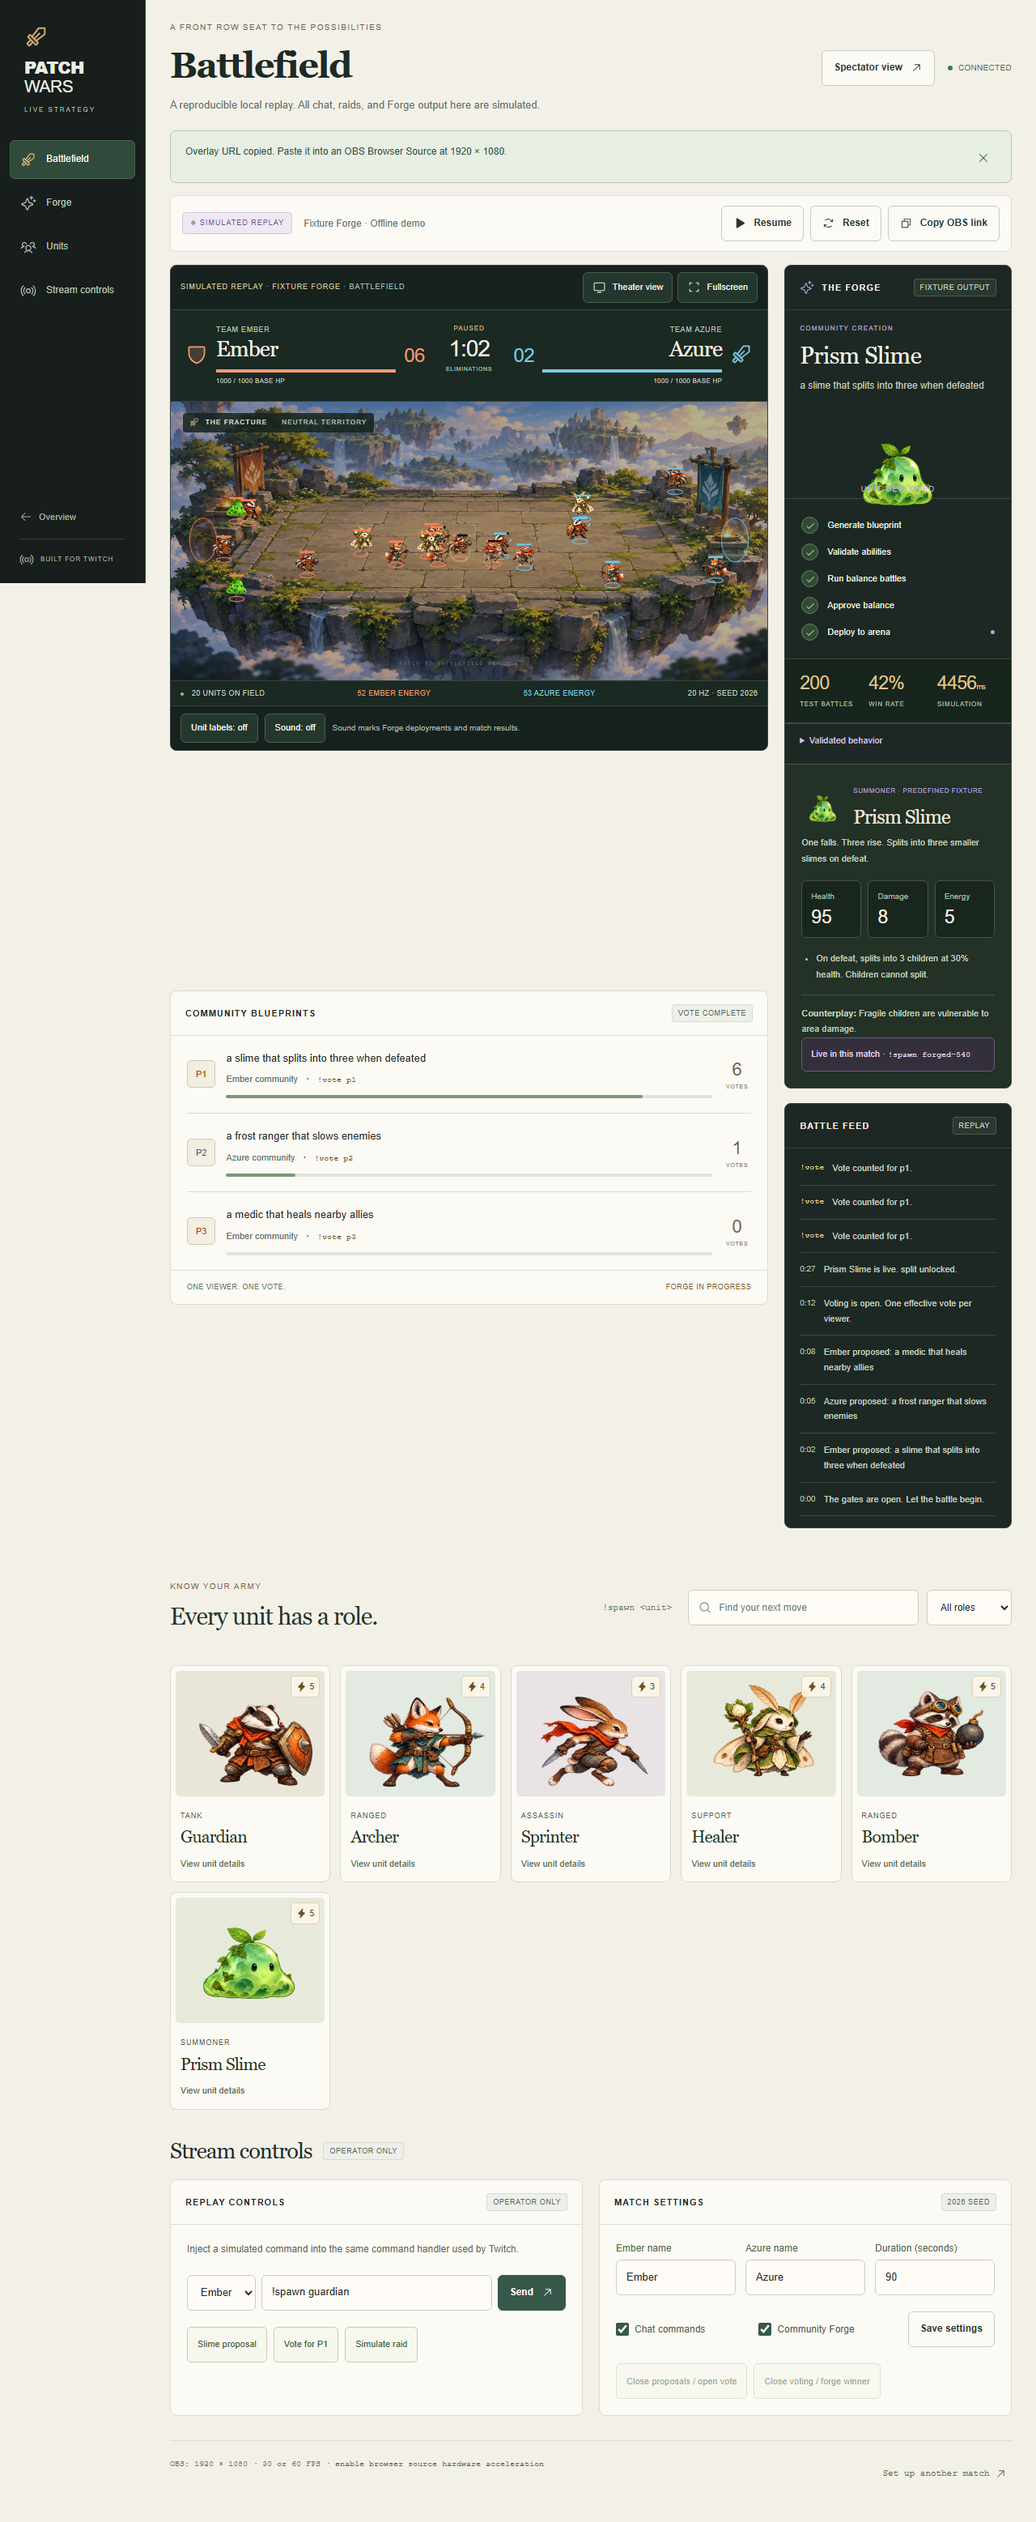
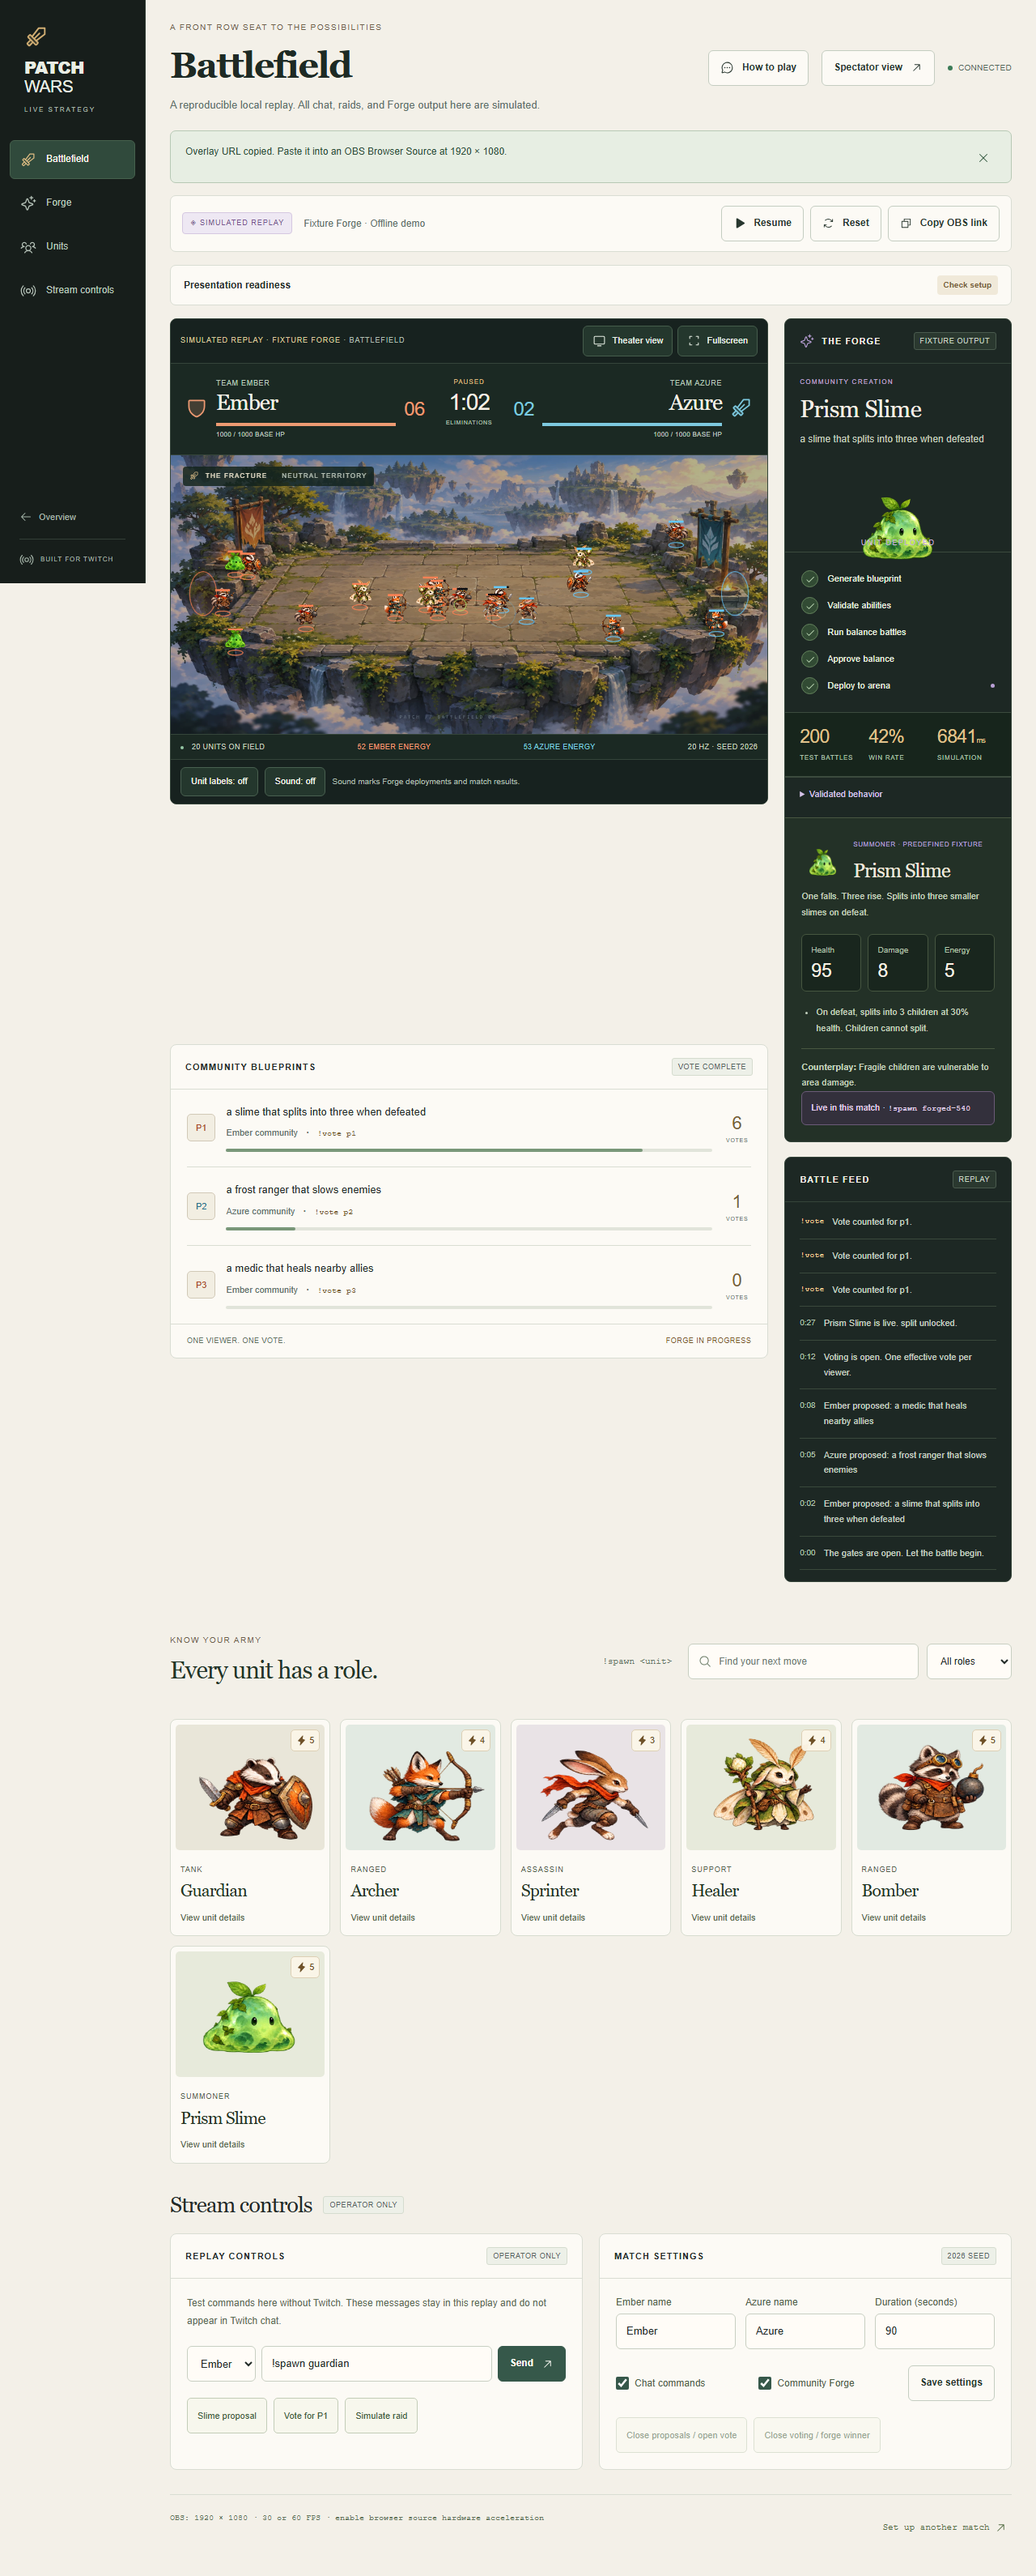
docs(verification): record priority checks and Twitch OBS rehearsal

diff --git a/docs/manual-rehearsal.md b/docs/manual-rehearsal.md
@@ -1,0 +1,77 @@
+# Check PATCH WARS yourself
+
+PATCH WARS is a browser-based game, not an extension. The local demo uses simulated chat and predefined Forge output. A live match listens to an authorized Twitch channel through EventSub and uses the configured Forge provider.
+
+## 1. Open the running app
+
+Open http://localhost:5173. If it is not running, open PowerShell in the project folder and run `pnpm.cmd dev`. Keep that terminal open. If port 5173 is already busy, try the existing page before launching another server.
+
+Optional local setup check: `pnpm.cmd run doctor`. It never prints your key or makes a paid generation request.
+
+## 2. Watch the complete automatic rehearsal
+
+Open http://localhost:5173/demo. Keep this room URL; revisiting /demo without a room creates a new match. Reset restarts the same room.
+
+| What to watch              | Expected result                                                                    |
+| -------------------------- | ---------------------------------------------------------------------------------- |
+| Connection and battlefield | CONNECTED, moving units, changing timer and team information                       |
+| Community blueprints       | Scripted proposals appear and voting opens                                         |
+| Forge                      | Blueprint generation, validation, 200 balance engagements, approval and deployment |
+| Unit deployed              | Prism Slime appears; the roster gains its detail card                              |
+| Combat                     | Eliminations and base health reflect the battle; a simulated raid occurs           |
+| Finish                     | A result card and winner/draw appear; Reset becomes available                      |
+
+The replay lasts 90 seconds of simulation time. Pauses and waiting for the worker can make wall time longer. Use the actual Forge/phase labels to judge progress. Everything here remains labelled SIMULATED REPLAY / FIXTURE FORGE, even if your live provider is Ollama.
+
+## 3. Try controls and messages
+
+1. Turn Unit labels on.
+2. While the replay is running, find Replay controls under Stream controls. Choose Ember, enter `!spawn archer`, and press Send. Expect an Archer deployed receipt and a highlighted unit. Leave at least two seconds between messages.
+3. Press Pause, then try another spawn. Expect a message explaining that combat is paused. Resume to continue.
+4. Open How to play. Copy an example and paste it into a text editor. Copying must not send a game command. Escape closes the guide and restores focus.
+5. Open Presentation readiness and select Check setup. Connection and renderer checks should pass. Demo/fixture notes are expected; they do not claim Twitch or real AI acceptance.
+6. Try Theater view, Escape, Fullscreen and its visible exit. If the browser rejects native fullscreen, an explained theater fallback should open. The same match continues.
+7. Open Spectator view in another tab. It should follow the same match and offer no operator pause/reset controls. Open the copied OBS link too; it should show no interactive viewing/host controls.
+8. After the result, Reset and Start battle. Timer, base health, scores and the match-specific generated roster should reset.
+
+## 4. Check Twitch itself
+
+1. Open /dashboard and enter your saved operator key locally. Do not share it.
+2. Create a Twitch match. Open Connection setup details and register the displayed callback in your Twitch developer app if needed.
+3. Click Connect Ember with Twitch and authorize your channel. Stay on the same browser address throughout authorization.
+4. Once connected, Start battle. Use the channel's Open chat link and send `!spawn archer` in actual Twitch chat.
+5. Expect a TWITCH CHAT receipt and an Archer on that channel's team. The local replay's Send button is a separate simulation path.
+
+A connected socket alone does not prove chat delivery. Use the receipt and deployed entity as evidence. Server restarts clear in-memory rooms and Twitch tokens, requiring a new match and authorization.
+
+### Show the live battle in OBS
+
+This project provides chat-controlled battles captured in OBS. It does not require a native Twitch extension or Bits purchases. The PixelWars reference video uses an extension, so the viewer input method differs.
+
+1. Copy the match's OBS link. In OBS, select Sources > + > Browser, paste the link and set Width 1920 / Height 1080.
+2. The copied transparent overlay is suitable above a camera or game source. Remove `?transparent=1` from the URL to include the full illustrated battlefield.
+3. Check OBS Preview while sending a command in your connected Twitch channel's chat. Confirm both the dashboard receipt and OBS unit deployment.
+4. When ready, start your Twitch broadcast from OBS. Ask a friend to watch your Twitch channel and send `!spawn archer`. Their video includes normal streaming delay; the dashboard receipt helps distinguish delivery from video delay.
+
+For one channel, OBS and PATCH WARS can run on the same computer using localhost. Viewers only need your Twitch stream and Twitch chat; they do not need your local dashboard, a public app deployment or an extension. Keep the app and OBS running. Use the channel link shown by the current match rather than assuming an old connected channel is still active.
+
+## 5. Check real local AI end to end
+
+Use an owned live match with Ollama selected and the configured model installed. Presentation readiness can verify the local model list; it does not generate anything.
+
+1. While proposals are open and combat is running, send `!forge a moss guardian with a shield` in the authorized Twitch chat.
+2. Confirm the proposal appears. Close proposals / open vote from Match settings.
+3. Send `!vote p1`, using the actual proposal ID shown on your screen.
+4. Close voting / forge winner. Then pause combat while local generation runs if needed.
+5. Inspect validation and the balance result. An approved unit should show its actual stats and abilities. If rejected, inspect the reason; rejection is an expected safety/balance outcome, not a successful deployment.
+6. Resume an approved match. After the deployment countdown, confirm the new unit enters the arena and appears in the unit library.
+
+This is the flow to record as live evidence. An automatic fixture replay does not establish real AI generation.
+
+## 6. Check phones and public access
+
+To open the web spectator page itself on another device, use a public deployment or active tunnel URL; localhost on a phone refers to that phone. Open the spectator link, try portrait/landscape layouts and expanded viewing, and check that controls remain readable without horizontal scrolling. Keep the host computer/server/tunnel running. Watching the Twitch broadcast on a phone does not require this web access. An actual second broadcaster, Shared Chat and raid still need separate consent and live tests.
+
+## Automated checks and profiling
+
+Run `pnpm.cmd typecheck`, `pnpm.cmd lint`, `pnpm.cmd test`, `pnpm.cmd build` and the browser suite. Run `pnpm.cmd run profile:ui` with the app running for local renderer/network measurements. These checks complement live rehearsal and cannot establish public hosting, real Twitch participation or submitted hackathon status.

diff --git a/docs/testing.md b/docs/testing.md
@@ -1,6 +1,6 @@
 # Testing
 
-Current Field Studio verification: **114 automated tests across 18 files**. Browser coverage includes the eight existing flows and five expanded-view checks. The historic [verification record](verification.md) describes the initial implementation; current evidence is in [Field Studio verification](field-studio-verification.md).
+Current verification: **122 automated tests across 23 files** and **20 Chromium browser tests**. Coverage includes the eight existing flows, five expanded-view checks and seven loading/readiness/command/performance checks. Earlier evidence remains in [Field Studio verification](field-studio-verification.md); the latest changes are described in [priority improvements](priority-improvements.md). Follow the [manual rehearsal](manual-rehearsal.md) for demo and actual Twitch/OBS checks.
 
 ```sh
 pnpm typecheck
@@ -20,7 +20,9 @@ Playwright checks landing/mobile layouts, the Forge-to-deployment flow, pause/re
 
 Expanded-view tests cover laptop viewport fit, retained canvas and exact paused game state, labels, focus containment/return, native fullscreen entry/exit, browser-driven exit events, unsupported/denied fullscreen fallback, portrait/landscape fit, spectator permissions and transparent control-free OBS output.
 
-When testing the built production server, run `tests/e2e/app.spec.ts` and `tests/e2e/display.spec.ts` against fresh isolated server instances for each file. Many cold browser contexts in one run can exhaust the existing 120-request/minute/IP budget, including static assets. Do not disable the limiter to pass tests. The normal development-server test configuration serves Vite assets separately. The production host-setup test expects the dedicated local key used in the verification instructions, never the owner's saved credentials.
+The full 20-test browser suite now passes against one built server instance. Public asset requests no longer consume the protected API's 120-request/minute/IP budget; the earlier per-file server workaround is unnecessary. Do not disable the API limiter to pass tests. The production host-setup test expects the dedicated local key used in the verification instructions, never the owner's saved credentials.
+
+`pnpm run profile:ui` measures local renderer and compact-snapshot work and writes `docs/evaluation/optimization.json`. Set PROFILE_BASE_URL to a running built instance to include its actual entry bundle size. Offscreen rendering and paused health-bar redraws are measured independently from the authoritative simulation. Emulated-device FPS and reconstructed legacy network bytes are local samples, not deployment or physical-device guarantees.
 
 Evaluation uses fixture output, 200 battles per candidate and 1,000 duplicate events. The soak runs 120 two-minute matches: four accelerated simulation hours, not four real hours of browser/network uptime. It checks caps and finite values and records uncollected heap growth; this is not proof of absence of leaks.
 

diff --git a/docs/priority-improvements.md b/docs/priority-improvements.md
@@ -37,3 +37,13 @@ Rendering now stops for hidden/offscreen canvases and resumes against the latest
 How to play is available from the landing page, setup/dashboard and spectator page. Its native modal dialog documents all nine parser-supported commands with copy buttons, clear attack/defend behavior, proposal/vote rules, energy and cooldown guidance. Connected-channel chat links are included when available. The guide never sends a command or starts generation; clipboard denial falls back to readable instructions. Escape closes the dialog and restores focus. OBS remains control-free.
 
 Tests pass each documented example through the real parser and verify attack/defend unit behavior. Browser checks compare paused match state before/after copying, inspect phone fit and focus return, and simulate clipboard denial.
+
+## Final verification and command clarity
+
+Typecheck, lint, build, all 122 automated tests across 23 files and all 20 Chromium browser tests passed after the final changes. The full browser suite used one built server instance. Updated screenshots are in docs/screenshots. The large deferred Pixi chunk and upstream Zod annotation warnings remain nonfatal build warnings.
+
+The final entry is 377,439 bytes (116,346 gzip estimate), about 65% below the 1,070,750-byte baseline. The final isolated built-server profile saved about 39.7% of snapshot bytes in both local samples, with zero offscreen frames and zero unchanged health-bar redraws during the paused sample. Observed renderer rates were about 26.3 FPS at the laptop viewport and 11.9 FPS in phone emulation; these do not establish physical-device performance or a 60 FPS guarantee. See docs/evaluation/optimization.json. An initial profiling attempt after the complete browser suite timed out; profiling succeeded on a fresh isolated server with the normal API limiter retained.
+
+Following feedback that commands and Twitch were confusing, demo sends now show their result beside the form and link back to the battlefield. Command-copy instructions distinguish demo replay input from actual Twitch chat. Live matches show a visible next action and the latest command receipt. No command grammar, gameplay rules or authorization boundary changed.
+
+The selected live experience is Twitch chat controlling a battle captured in OBS. A native Twitch extension and Bits purchases from the PixelWars reference are not implemented or required for that experience. The [manual rehearsal](manual-rehearsal.md) separates fixture simulation, actual Twitch authorization/chat, OBS broadcasting and real local AI. Live broadcasting, remote second-channel consent and hackathon submission still require owner participation; this automated run does not claim them complete.

diff --git a/docs/readiness.md b/docs/readiness.md
@@ -18,11 +18,13 @@ Updated October 29, 2026 (IST).
 
 - Record a complete real Twitch proposal -> vote -> local AI -> deployment flow.
 - Test a second broadcaster, native Shared Chat and actual raid events.
-- Choose and authorize public hosting; verify HTTPS/WSS and OAuth callback on that origin.
+- For remote web spectators or a remote second broadcaster, choose and authorize public hosting; verify HTTPS/WSS and OAuth callback on that origin. A single-channel OBS broadcast can run locally; Twitch viewers do not need public app access.
 - Record authentic Codex contribution evidence and publish a public video under three minutes.
 - Fill the Devpost form, personally verify eligibility and confirm Submitted status.
 
 Initial six implementation commits were pushed. New improvement commits are recorded in Git history. No public deployment, YouTube publication, Devpost submission or paid API execution is claimed.
+
+Latest priorities 1–5 add public-asset/API rate-limit separation, deferred production renderer loading, private presentation readiness, compact snapshots and rendering suspension, and a copy-only command guide. Verification includes 122 automated tests across 23 files and 20 browser tests against a built server, plus typecheck, lint and build. See [measurements and scope](priority-improvements.md) and [manual Twitch/OBS rehearsal](manual-rehearsal.md). Priority 6 (persistent match summaries) remains excluded. This run does not establish a new live Twitch broadcast or second-channel acceptance.
 
 ## Limits
 

diff --git a/README.md b/README.md
@@ -78,6 +78,10 @@ Copy `.env.example` to `.env`, configure the Twitch application and operator key
 
 OBS: use the copied overlay link at **1920 × 1080** with hardware acceleration. `/overlay/:id?transparent=1` is transparent; `/spectate/:id` is a full spectator page. Links grant viewing only.
 
+For a single-channel stream, the app and OBS can run locally: viewers watch Twitch and type commands in the connected channel's chat. They do not need dashboard access or a Twitch extension. Follow the [complete demo and live OBS rehearsal](docs/manual-rehearsal.md). How to play explains commands; live matches show the next connection/start/chat action, while demo controls report simulated results inline.
+
+Presentation readiness checks private setup without generating AI output. Lazy renderer loading, public asset caching, compact snapshots and offscreen rendering reduce unnecessary work; see [prioritized improvements](docs/priority-improvements.md) and run `pnpm run profile:ui` for local measurements.
+
 ## Free local AI
 
 No OpenAI key is needed with Ollama. See [local AI setup and measured limitations](docs/local-ai.md). The verified development model is `qwen2.5:3b`; `pnpm verify:local-ai` exercises real generation, schema checks and balance. Local generation can take a minute: pause the match during generation, then resume once approved. Demo rooms always remain fixture-based.

diff --git a/docs/setup.md b/docs/setup.md
@@ -92,4 +92,6 @@ Generated broadcaster invitations always use the configured public origin. The o
 
 ## Local preflight
 
+For a complete walkthrough, follow [demo rehearsal and live Twitch/OBS testing](manual-rehearsal.md). Use How to play for copyable commands and Presentation readiness for private setup checks. Copying a command does not send it. In a live match, type it in the connected channel's Twitch chat; the local Send form belongs only to demo rooms.
+
 Run `pnpm run doctor` (Windows: `pnpm.cmd run doctor`) before recording. It checks runtime, exact-origin configuration, operator-key presence/length, Twitch callback shape, Git tracking of .env, the worker bundle, installed Ollama model and local health. It never prints credentials or makes paid generation requests. Passing configuration checks does not prove live Twitch consent, model quality, public hosting or submitted status.
